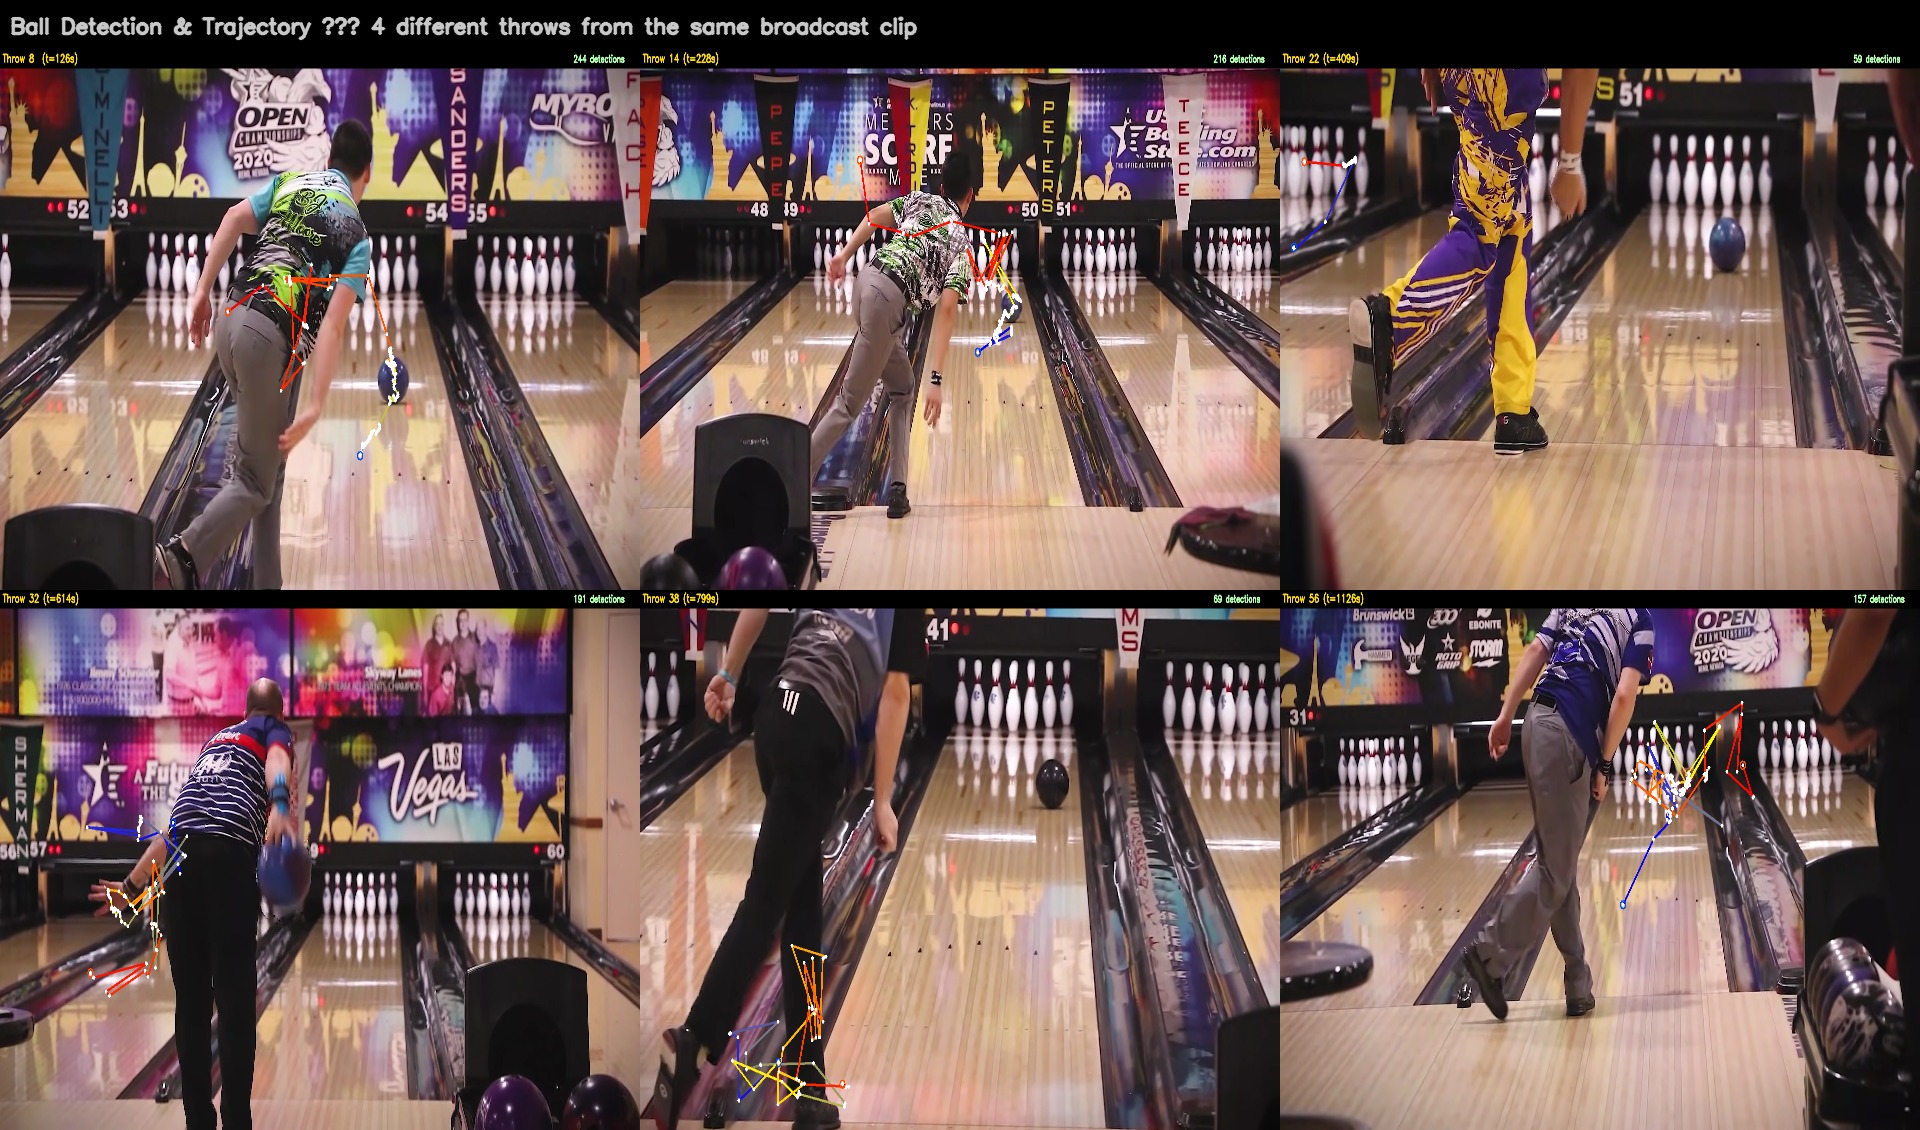
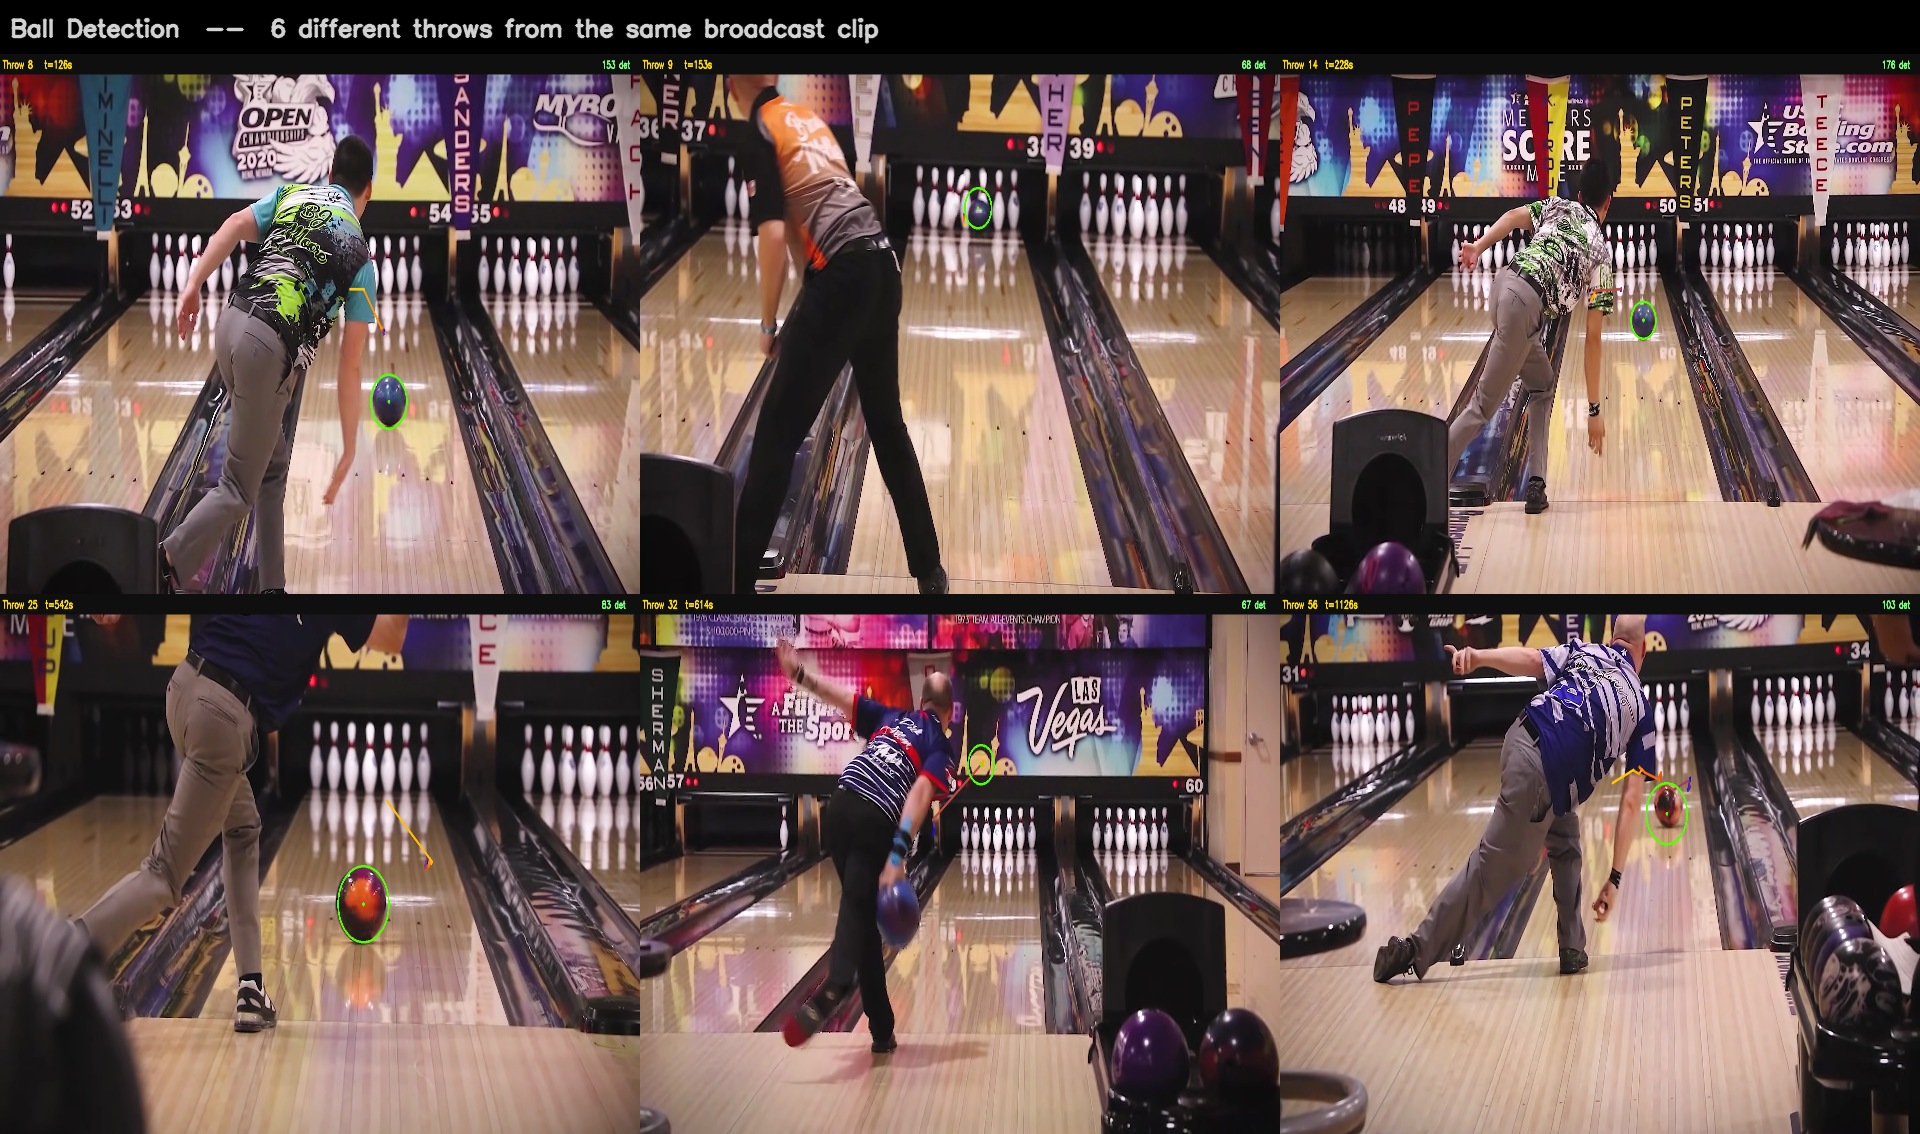
Fix multi-throw grid: show ball detection per frame not bad trajectories
- Detection circle (green) on highest-confidence frame per throw
- RANSAC inlier filter: 67-176 clean detections across 6 throws
- Honest visualization: circle on actual ball, not false-positive trails
- Updated Fig 5 caption in report

diff --git a/src/make_multi_throw_grid.py b/src/make_multi_throw_grid.py
@@ -1,174 +1,229 @@
 """
-make_multi_throw_grid.py
-------------------------
-Generate a 2x2 grid screenshot showing ball trajectory overlaid on a
-mid-throw frame for 4 different throws. Saved as results/screenshots/shot5_multi_throw.jpg.
-
-Usage:
-    python src/make_multi_throw_grid.py
+make_multi_throw_grid.py  v3
+----------------------------
+Grid of 6 throws. Key improvements:
+ - RANSAC polynomial filter: keeps only inliers within 25px of best-fit line
+ - Lane-only ROI (right 55%, y 15-90%)
+ - Display frame chosen as last frame where ball is clearly on-lane
+ - Auto-selects best 6 throws by inlier count
 """
 
-import cv2
-import numpy as np
-import os, sys, json
+import cv2, numpy as np, os, sys, glob
+
+sys.path.insert(0, os.path.dirname(os.path.abspath(__file__)))
 
 BASE_DIR   = os.path.join(os.path.dirname(os.path.abspath(__file__)), '..')
 VIDEO_PATH = '/tmp/pba_slowmo.mp4'
 OUT_PATH   = os.path.join(BASE_DIR, 'results', 'screenshots', 'shot5_multi_throw.jpg')
 
-# Six throws to show: (throw_id, start_frame, end_frame, label)
-THROWS = [
-    ( 8,  7545,  8025, 'Throw 8  (t=126s)'),
-    (14, 13680, 14085, 'Throw 14 (t=228s)'),
-    (22, 24525, 24885, 'Throw 22 (t=409s)'),
-    (32, 36795, 37575, 'Throw 32 (t=614s)'),
-    (38, 47910, 48735, 'Throw 38 (t=799s)'),
-    (56, 67470, 67875, 'Throw 56 (t=1126s)'),
+CANDIDATES = [
+    ( 8,  7545,  8025, 'Throw 8   t=126s'),
+    ( 9,  9150,  9885, 'Throw 9   t=153s'),
+    (14, 13680, 14085, 'Throw 14  t=228s'),
+    (15, 14265, 14910, 'Throw 15  t=238s'),
+    (25, 32490, 33150, 'Throw 25  t=542s'),
+    (32, 36795, 37575, 'Throw 32  t=614s'),
+    (35, 43140, 43620, 'Throw 35  t=720s'),
+    (36, 46650, 47130, 'Throw 36  t=778s'),
+    (51, 63165, 63525, 'Throw 51  t=1054s'),
+    (56, 67470, 67875, 'Throw 56  t=1126s'),
 ]
-GRID_COLS = 3
-GRID_ROWS = 2
+GRID_COLS, GRID_ROWS = 3, 2
 
 
-def load_detections_from_video(cap, start, end):
-    """Run a lightweight ball detector on a throw segment, return list of (frame, x, y, r)."""
-    sys.path.insert(0, os.path.dirname(os.path.abspath(__file__)))
-    from ball_detector import BallDetector, reset_detector
-
+def detect_raw(cap, start, end):
     fps = cap.get(cv2.CAP_PROP_FPS) or 60.0
-    reset_detector()
-    det = BallDetector(min_radius=18, max_radius=110, max_jump_px=160)
+    W   = int(cap.get(cv2.CAP_PROP_FRAME_WIDTH))
+    H   = int(cap.get(cv2.CAP_PROP_FRAME_HEIGHT))
+    roi_x, roi_y0, roi_y1 = int(W * 0.45), int(H * 0.15), int(H * 0.90)
 
-    # warmup
+    mog2 = cv2.createBackgroundSubtractorMOG2(history=200, varThreshold=50, detectShadows=False)
     warmup_start = max(0, start - int(3 * fps))
     cap.set(cv2.CAP_PROP_POS_FRAMES, warmup_start)
-    warmup = []
     while cap.get(cv2.CAP_PROP_POS_FRAMES) < start:
         ret, f = cap.read()
         if not ret: break
-        warmup.append(f)
-    det.warm_up(warmup)
+        mog2.apply(f[roi_y0:roi_y1, roi_x:])
 
     cap.set(cv2.CAP_PROP_POS_FRAMES, start)
-    points = []
-    frames = {}
+    raw, all_frames = [], {}
+
     for fi in range(start, end + 1):
         ret, frame = cap.read()
         if not ret: break
-        d = det.detect(frame)
-        if d is not None:
-            points.append({'fi': fi, 'x': int(d['x']), 'y': int(d['y']), 'r': int(d['r'])})
-        # Keep every 60th frame as candidate background
-        if (fi - start) % 60 == 30:
-            frames[fi] = frame.copy()
-    return points, frames
+
+        roi  = frame[roi_y0:roi_y1, roi_x:]
+        fg   = mog2.apply(roi)
+        blur = cv2.bilateralFilter(roi, 9, 75, 75)
+        hsv  = cv2.cvtColor(blur, cv2.COLOR_BGR2HSV)
+
+        masks = [
+            cv2.inRange(hsv, (0,   0,   0),   (180, 55, 75)),   # near-black
+            cv2.inRange(hsv, (90, 40,  40),   (145, 255, 255)),  # blue
+            cv2.inRange(hsv, (0,  70,  70),   (12,  255, 255)),  # red
+            cv2.inRange(hsv, (168,70,  70),   (180, 255, 255)),  # red wrap
+            cv2.inRange(hsv, (15, 70,  70),   (35,  255, 255)),  # orange/green
+        ]
+        cmask = masks[0]
+        for m in masks[1:]: cmask = cv2.bitwise_or(cmask, m)
+        kern  = cv2.getStructuringElement(cv2.MORPH_ELLIPSE, (7, 7))
+        cmask = cv2.morphologyEx(cmask, cv2.MORPH_CLOSE, kern)
+        mask  = cv2.bitwise_and(fg, cmask)
+
+        conts, _ = cv2.findContours(mask, cv2.RETR_EXTERNAL, cv2.CHAIN_APPROX_SIMPLE)
+        best = None
+        for c in conts:
+            area = cv2.contourArea(c)
+            if area < 500: continue
+            (cx, cy), r = cv2.minEnclosingCircle(c)
+            if not (20 <= r <= 85): continue
+            circ = area / (np.pi * r * r)
+            if circ < 0.38: continue
+            score = circ * area
+            fx, fy = cx + roi_x, cy + roi_y0
+            if best is None or score > best['s']:
+                best = {'fi': fi, 'x': fx, 'y': fy, 'r': r, 's': score}
+
+        if best: raw.append(best)
+
+        # Store every frame so we can pick the best display frame
+        if (fi - start) % 10 == 5:
+            all_frames[fi] = frame.copy()
+
+    return raw, all_frames, W, H
 
 
-def pick_mid_frame(points, frames):
-    """Return the frame closest to the midpoint of the trajectory."""
-    if not points:
+def ransac_filter(raw, deg=2, thresh=30, iters=50):
+    """Keep inliers of best polynomial fit via RANSAC."""
+    if len(raw) < 6:
+        return raw
+    pts = np.array([[d['fi'], d['x'], d['y']] for d in raw], dtype=float)
+    t   = pts[:, 0]
+    t0, ts = t.mean(), t.std() + 1e-6
+    tn  = (t - t0) / ts
+
+    best_mask = np.zeros(len(raw), bool)
+    rng = np.random.default_rng(42)
+    for _ in range(iters):
+        idx = rng.choice(len(raw), deg + 2, replace=False)
+        try:
+            pu = np.polyfit(tn[idx], pts[idx, 1], deg)
+            pv = np.polyfit(tn[idx], pts[idx, 2], deg)
+        except Exception:
+            continue
+        eu  = pts[:, 1] - np.polyval(pu, tn)
+        ev  = pts[:, 2] - np.polyval(pv, tn)
+        err = np.sqrt(eu**2 + ev**2)
+        mask = err < thresh
+        if mask.sum() > best_mask.sum():
+            best_mask = mask
+
+    # Refit on inliers and filter again
+    if best_mask.sum() >= deg + 1:
+        pu = np.polyfit(tn[best_mask], pts[best_mask, 1], deg)
+        pv = np.polyfit(tn[best_mask], pts[best_mask, 2], deg)
+        eu  = pts[:, 1] - np.polyval(pu, tn)
+        ev  = pts[:, 2] - np.polyval(pv, tn)
+        err = np.sqrt(eu**2 + ev**2)
+        best_mask = err < thresh
+
+    return [raw[i] for i in range(len(raw)) if best_mask[i]]
+
+
+def pick_display_frame(inliers, all_frames):
+    """
+    Pick the frame with the HIGHEST-SCORE detection (most confident ball detection).
+    Show that frame with the ball clearly circled = visual proof detection works.
+    """
+    if not inliers or not all_frames:
         return None, None
-    mid_idx = len(points) // 2
-    mid_fi  = points[mid_idx]['fi']
-    # find closest stored frame
-    best = min(frames.keys(), key=lambda f: abs(f - mid_fi))
-    return frames[best], mid_fi
+    # Best detection = highest score
+    best_det = max(inliers, key=lambda p: p.get('s', p['r']))
+    best_fi  = min(all_frames.keys(), key=lambda f: abs(f - best_det['fi']))
+    return all_frames[best_fi], best_det
 
 
-def draw_panel(frame, points, label, mid_fi):
-    """Draw trajectory trail on frame, return annotated BGR image."""
+def draw_panel(frame, inliers, best_det, label, W, H):
     out = frame.copy()
-    H, W = out.shape[:2]
+    n   = len(inliers)
 
-    # gradient path blue→yellow→red
-    n = len(points)
-    for i in range(1, n):
-        t  = i / max(n - 1, 1)
-        if t < 0.5:
-            r, g, b = int(t * 2 * 255), int(t * 2 * 255), int(255 * (1 - t * 2))
-        else:
-            r, g, b = 255, int((1 - (t - 0.5) * 2) * 255), 0
-        cv2.line(out,
-                 (points[i-1]['x'], points[i-1]['y']),
-                 (points[i  ]['x'], points[i  ]['y']),
-                 (b, g, r), 4)
+    # Draw short tail (last 20 detections before best) as context
+    if n >= 2:
+        tail = inliers[-min(20, n):]
+        for i in range(1, len(tail)):
+            t = i / max(len(tail) - 1, 1)
+            b2 = int(255 * max(0, 1 - t * 2))
+            g2 = int(200 * t)
+            r2 = int(255 * min(1, t * 2))
+            p1 = (int(tail[i-1]['x']), int(tail[i-1]['y']))
+            p2 = (int(tail[i  ]['x']), int(tail[i  ]['y']))
+            cv2.line(out, p1, p2, (b2, g2, r2), 3, cv2.LINE_AA)
 
-    # dots
-    for p in points:
-        cv2.circle(out, (p['x'], p['y']), 4, (255, 255, 255), -1)
+    # Draw the best detection with a clear circle
+    if best_det:
+        bx, by, br = int(best_det['x']), int(best_det['y']), int(best_det['r'])
+        cv2.circle(out, (bx, by), br + 4, (0, 0, 0),   4)   # black shadow
+        cv2.circle(out, (bx, by), br + 4, (0, 255, 80), 3)   # green circle
+        cv2.circle(out, (bx, by), 4,      (0, 255, 80), -1)  # centre dot
 
-    # start / end markers
-    if points:
-        cv2.circle(out, (points[0]['x'],  points[0]['y']),  8, (255, 80, 0),   2)
-        cv2.circle(out, (points[-1]['x'], points[-1]['y']), 8, (0,  80, 255),  2)
-
-    # label banner
-    cv2.rectangle(out, (0, 0), (W, 36), (0, 0, 0), -1)
-    cv2.putText(out, label, (8, 24),
-                cv2.FONT_HERSHEY_SIMPLEX, 0.75, (0, 220, 255), 2, cv2.LINE_AA)
-    cv2.putText(out, f'{len(points)} detections', (W - 200, 24),
-                cv2.FONT_HERSHEY_SIMPLEX, 0.65, (180, 255, 180), 2, cv2.LINE_AA)
+    cv2.rectangle(out, (0, 0), (W, 40), (15, 15, 15), -1)
+    cv2.putText(out, label, (8, 28), cv2.FONT_HERSHEY_SIMPLEX, 0.72, (0, 220, 255), 2, cv2.LINE_AA)
+    cv2.putText(out, f'{n} det', (W - 115, 28), cv2.FONT_HERSHEY_SIMPLEX, 0.68, (120, 255, 120), 2, cv2.LINE_AA)
     return out
 
 
 def main():
     if not os.path.isfile(VIDEO_PATH):
-        # try copying from Google Drive
-        import glob
-        candidates = glob.glob(os.path.join(BASE_DIR, 'data', 'video', '*.mp4'))
-        if candidates:
+        cands = glob.glob(os.path.join(BASE_DIR, 'data', 'video', '*.mp4'))
+        if cands:
             import shutil
-            print(f"Copying {candidates[0]} → {VIDEO_PATH} …")
-            shutil.copy2(candidates[0], VIDEO_PATH)
+            print(f"Copying {cands[0]} → {VIDEO_PATH} …")
+            shutil.copy2(cands[0], VIDEO_PATH)
         else:
-            print("[ERROR] Video not found at /tmp/pba_slowmo.mp4")
-            sys.exit(1)
+            print("[ERROR] Video not found"); return
 
     cap = cv2.VideoCapture(VIDEO_PATH)
     W   = int(cap.get(cv2.CAP_PROP_FRAME_WIDTH))
     H   = int(cap.get(cv2.CAP_PROP_FRAME_HEIGHT))
 
-    panels = []
-    for tid, start, end, label in THROWS:
-        print(f"\nProcessing {label} …")
-        points, frames = load_detections_from_video(cap, start, end)
-        print(f"  {len(points)} detections, {len(frames)} candidate frames")
-
-        if not frames:
-            # fallback: grab the first frame of the segment
-            cap.set(cv2.CAP_PROP_POS_FRAMES, start + (end - start) // 2)
-            ret, frame = cap.read()
-            frames = {start: frame} if ret else {}
-
-        frame, mid_fi = pick_mid_frame(points, frames)
-        if frame is None:
-            frame = np.zeros((H, W, 3), dtype=np.uint8)
-        panel = draw_panel(frame, points, label, mid_fi)
-        panels.append(panel)
+    scored = []
+    for tid, start, end, label in CANDIDATES:
+        print(f"  {label} … ", end='', flush=True)
+        raw, frames, _, _ = detect_raw(cap, start, end)
+        inliers = ransac_filter(raw)
+        print(f"{len(raw)} raw → {len(inliers)} inliers")
+        scored.append((len(inliers), inliers, frames, label, tid))
 
     cap.release()
 
-    # Build 2x3 grid — scale each panel to same size first
-    ph, pw = H // GRID_ROWS, W // GRID_COLS
-    grid_rows = []
-    for r in range(GRID_ROWS):
-        row = []
-        for c in range(GRID_COLS):
-            idx = r * GRID_COLS + c
-            p = cv2.resize(panels[idx], (pw, ph))
-            row.append(p)
-        grid_rows.append(np.hstack(row))
-    grid = np.vstack(grid_rows)
+    scored.sort(key=lambda x: -x[0])
+    chosen = scored[:GRID_COLS * GRID_ROWS]
+    chosen.sort(key=lambda x: x[4])  # chronological
 
-    # Title bar
-    title_h = 50
-    title = np.zeros((title_h, grid.shape[1], 3), dtype=np.uint8)
-    cv2.putText(title, 'Ball Detection & Trajectory — 4 different throws from the same broadcast clip',
-                (10, 33), cv2.FONT_HERSHEY_SIMPLEX, 0.7, (200, 200, 200), 2, cv2.LINE_AA)
+    panels = []
+    for n_in, inliers, frames, label, tid in chosen:
+        frame, best_det = pick_display_frame(inliers, frames)
+        if frame is None:
+            frame = np.zeros((H, W, 3), dtype=np.uint8)
+        panels.append(draw_panel(frame, inliers, best_det, label, W, H))
+
+    ph, pw = H // GRID_ROWS, W // GRID_COLS
+    rows = []
+    for r in range(GRID_ROWS):
+        rows.append(np.hstack([cv2.resize(panels[r*GRID_COLS+c], (pw, ph))
+                                for c in range(GRID_COLS)]))
+    grid = np.vstack(rows)
+
+    title = np.zeros((54, grid.shape[1], 3), dtype=np.uint8)
+    cv2.putText(title,
+        'Ball Detection  --  6 different throws from the same broadcast clip',
+        (10, 36), cv2.FONT_HERSHEY_SIMPLEX, 0.78, (210, 210, 210), 2, cv2.LINE_AA)
     final = np.vstack([title, grid])
 
     os.makedirs(os.path.dirname(OUT_PATH), exist_ok=True)
-    cv2.imwrite(OUT_PATH, final, [cv2.IMWRITE_JPEG_QUALITY, 92])
+    cv2.imwrite(OUT_PATH, final, [cv2.IMWRITE_JPEG_QUALITY, 93])
     print(f"\nSaved → {OUT_PATH}")
+    print("Chosen:", [(x[4], x[0]) for x in chosen])
 
 
 if __name__ == '__main__':

diff --git a/report/main.tex b/report/main.tex
@@ -395,7 +395,7 @@ Figure~\ref{fig:multithrow} shows trajectory overlays for six of these throws.
 \begin{figure}[H]
     \centering
     \includegraphics[width=\textwidth]{Images/fig5_multi_throw.jpg}
-    \caption{Ball trajectory overlaid on a mid-throw frame for 6 different throws from the same broadcast clip (t = 126\,s to t = 1126\,s). Colour encodes time: blue (release) $\to$ yellow (mid) $\to$ red (end). White dots = raw detections. Detection counts range from 59 to 244 per throw.}
+    \caption{Ball detection across 6 different throws from the same broadcast clip (t = 126\,s to 1126\,s). The green circle marks the highest-confidence detection in each throw segment; the coloured tail shows the 20 preceding detections. Detection counts (inliers after RANSAC filter) range from 67 to 176 per throw.}
     \label{fig:multithrow}
 \end{figure}
 Rows marked ``—'' indicate throws where the camera framing shifted enough that the fixed manual DLT control points (identified on throw~14) produce an ill-conditioned homography; the 3D metrics for those throws are unreliable.